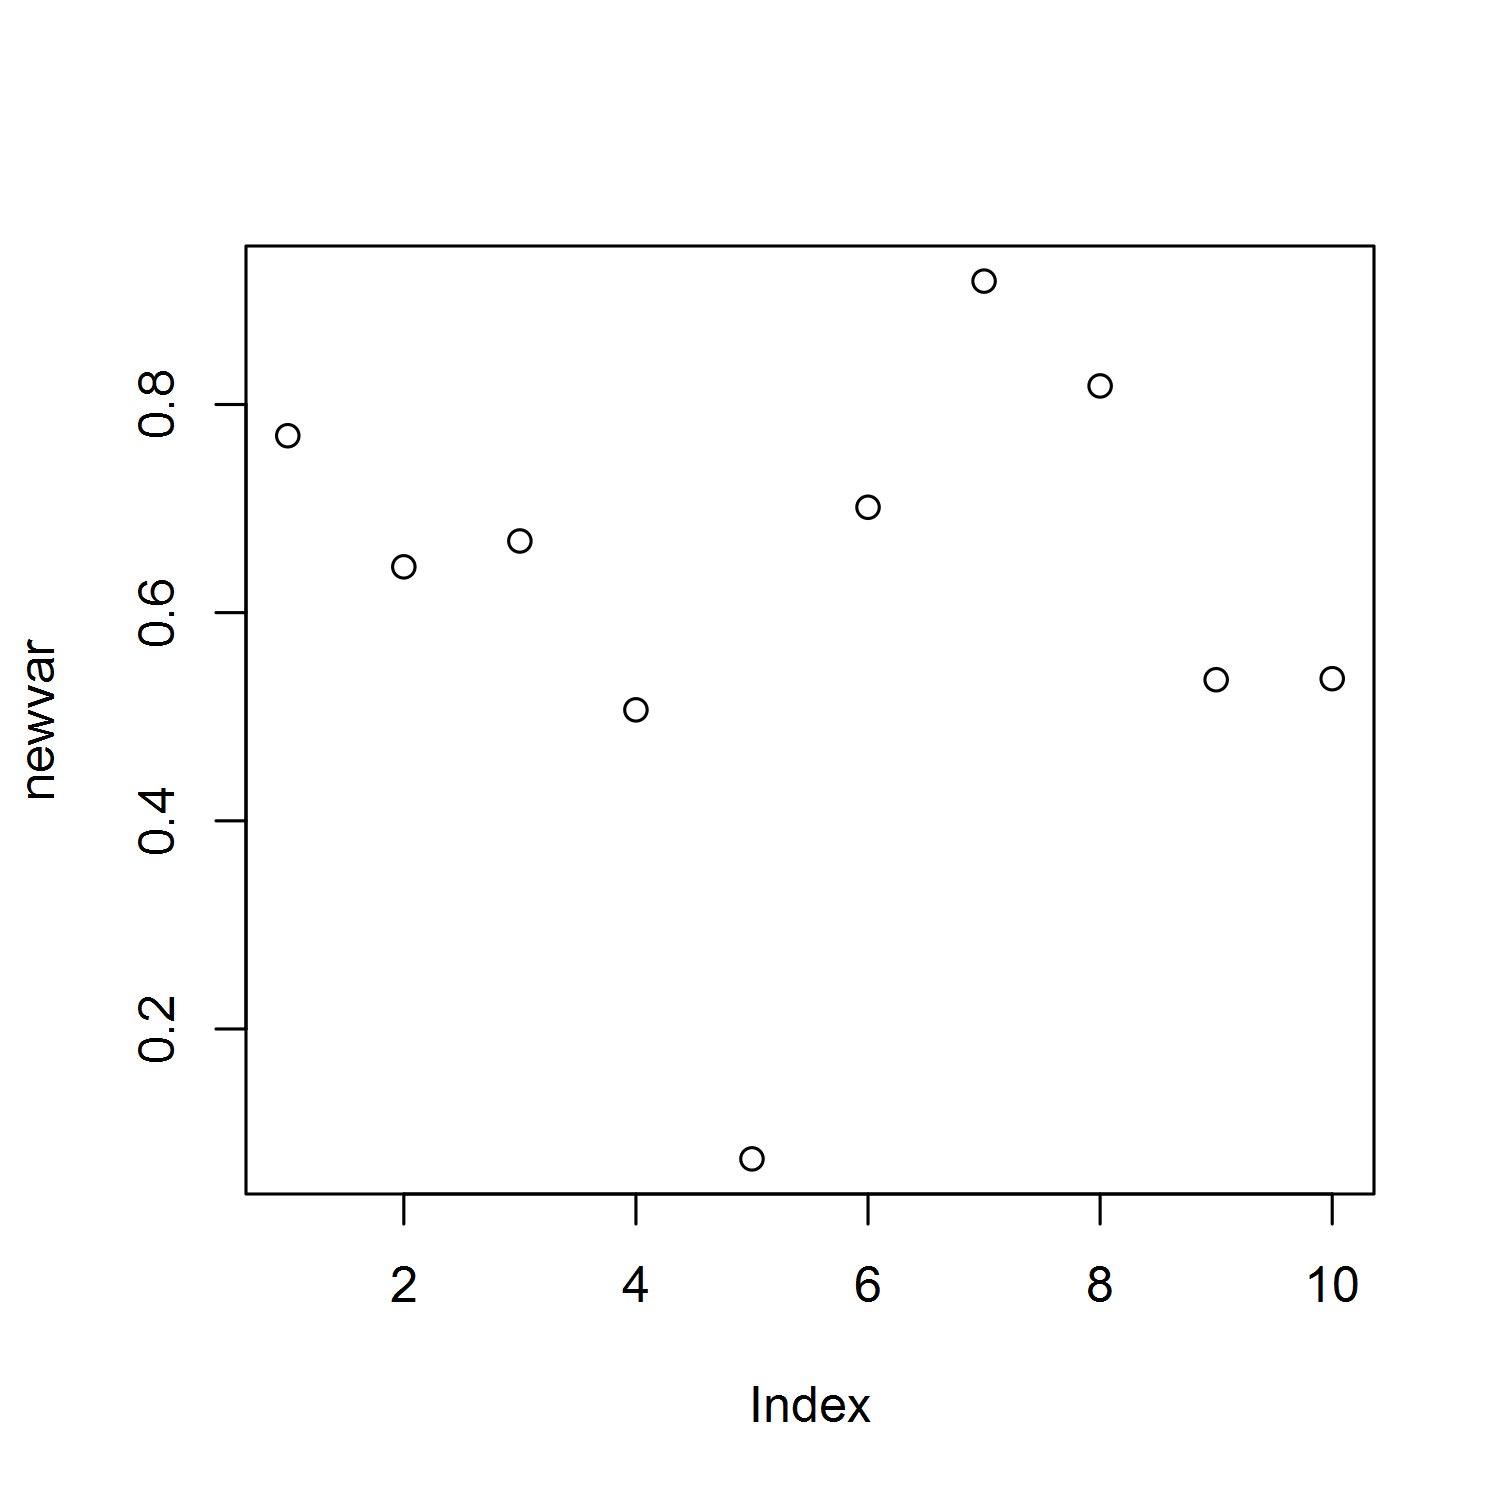
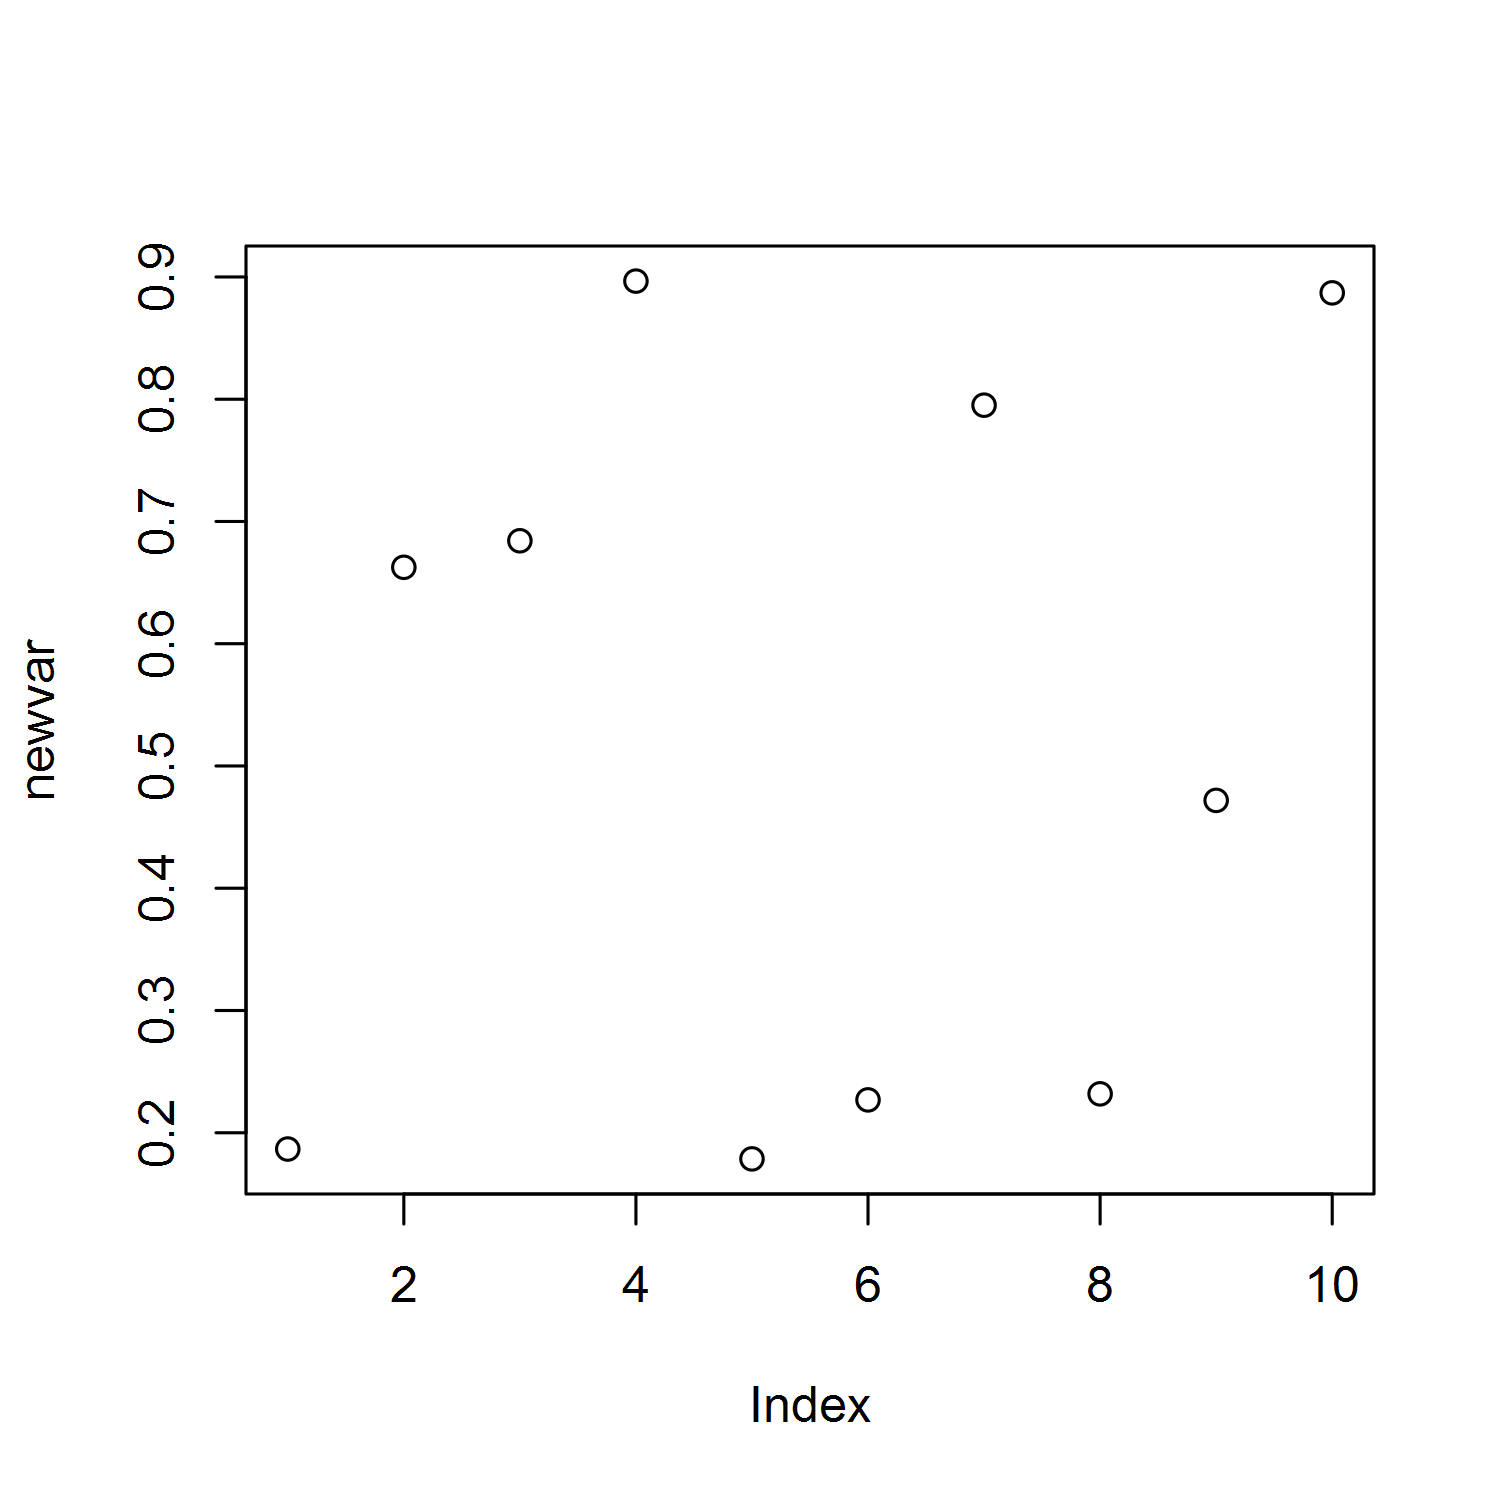
Add verbatim RMarkdown chunks using Yuihui's insane hack

diff --git a/chunk_test.md b/chunk_test.md
@@ -38,12 +38,16 @@ we can read chunks from as many “child” scripts as we want, so long as
 the chunk names don’t conflict!) Ordinarily we would use `echo = FALSE`
 to read in the script’s chunks silently. Note that the code is not
 executed at this point; it is just made available to be invoked in
-subsequent chunks.
+subsequent chunks. (BTW, the [insane RMarkdown
+syntax](https://yihui.org/en/2017/11/knitr-verbatim-code-chunk/) needed
+to produce the following verbatim RMarkdown code chunk is far more
+esoteric than code externalization. On the upside, it apparently makes
+the aforementioned chunk tool buttons vanish throughout the document.)
 
-``` r
-read_chunk(here("chunk_test1.R"))
-read_chunk(here("chunk_test2.R"))
-```
+    ```{r read_chunk}
+    read_chunk(here("chunk_test1.R"))
+    read_chunk(here("chunk_test2.R"))
+    ```
 
 Let’s see what’s in these external scripts. This is `chunk_test1.R`:
 
@@ -102,6 +106,13 @@ chunk again, and whether the behavior differs for the `print()` and
 
 ## Run the `variables_xy` chunk and use the variables it creates
 
+The RMarkdown chunk
+
+    ```{r variables_xy}
+    ```
+
+produces this:
+
 ``` r
 x <- seq(0, 10, length = 100)
 y <- x + rnorm(100)
@@ -109,24 +120,32 @@ dat <- data.frame(x = x, y = y)
 head(dat)
 ```
 
-              x          y
-    1 0.0000000  0.1479187
-    2 0.1010101 -0.7328454
-    3 0.2020202 -0.5355338
-    4 0.3030303 -0.9461888
-    5 0.4040404  1.4595739
-    6 0.5050505 -1.1773967
+              x            y
+    1 0.0000000  0.398944300
+    2 0.1010101 -0.567377072
+    3 0.2020202  0.061912905
+    4 0.3030303  0.718124146
+    5 0.4040404  0.806425710
+    6 0.5050505  0.003118695
 
 ## Run the `plot_xy` chunk and create the plot
 
 This time we’ll use `echo = FALSE` to suppress the code.
+
+    ```{r plot_xy, fig.height=5, fig.width=5, out.width = "40%", echo = FALSE}
+    ```
 
 <img src="chunk_test_files/figure-gfm/plot_xy-1.png" width="40%" style="display: block; margin: auto;" />
 
 ## Fit linear model
 
 The next chunk shows how to fit a linear model to `y` as a function of
-`x`, but doesn’t actually do so (`eval = FALSE`).
+`x`, but doesn’t actually do so (`eval = FALSE`). RMarkdown:
+
+    ```{r lm_xy, eval = FALSE}
+    ```
+
+Result:
 
 ``` r
 lmxy <- lm(y ~ x, data = dat)
@@ -139,6 +158,13 @@ Now we’ll use a chunk from the second script, entirely unrelated to the
 first.
 
 ## Silly `ggplot2` demo
+
+The RMarkdown syntax
+
+    ```{r ggplot2_demo, fig.width=7, fig.height=3, out.width="75%"}
+    ```
+
+does this, for whatever reason:
 
 ``` r
 library(ggplot2)
@@ -157,6 +183,17 @@ the RMarkdown itself? Let’s find out. First we assign a variable
 `newvar`, and then we call a chunk that prints its contents and plots it
 with the default method.
 
+    ```{r assign_newvar1}
+    newvar <- 1:10
+    ```
+
+    ```{r needs_external_input1, fig.height=5, fig.width=5, out.width = "40%"}
+    <<needs_external_input>>
+    ```
+
+That produces the echoed R code followed by the results of the `print()`
+and `plot()` calls, respectively:
+
 ``` r
 newvar <- 1:10
 ```
@@ -174,6 +211,7 @@ plot(newvar)
 <img src="chunk_test_files/figure-gfm/needs_external_input1-1.png" width="40%" style="display: block; margin: auto;" />
 
 And what if we modify `newvar` and then call the summary chunk again?
+The output is:
 
 ``` r
 newvar <- runif(10,0,1)
@@ -183,8 +221,8 @@ newvar <- runif(10,0,1)
 print(newvar)
 ```
 
-     [1] 0.76998502 0.64402819 0.66886307 0.50661462 0.07519542 0.70125307
-     [7] 0.91853503 0.81782314 0.53554261 0.53655458
+     [1] 0.1866755 0.6625136 0.6842112 0.8966011 0.1786132 0.2268726 0.7951142
+     [8] 0.2318173 0.4718466 0.8869957
 
 ``` r
 plot(newvar)
